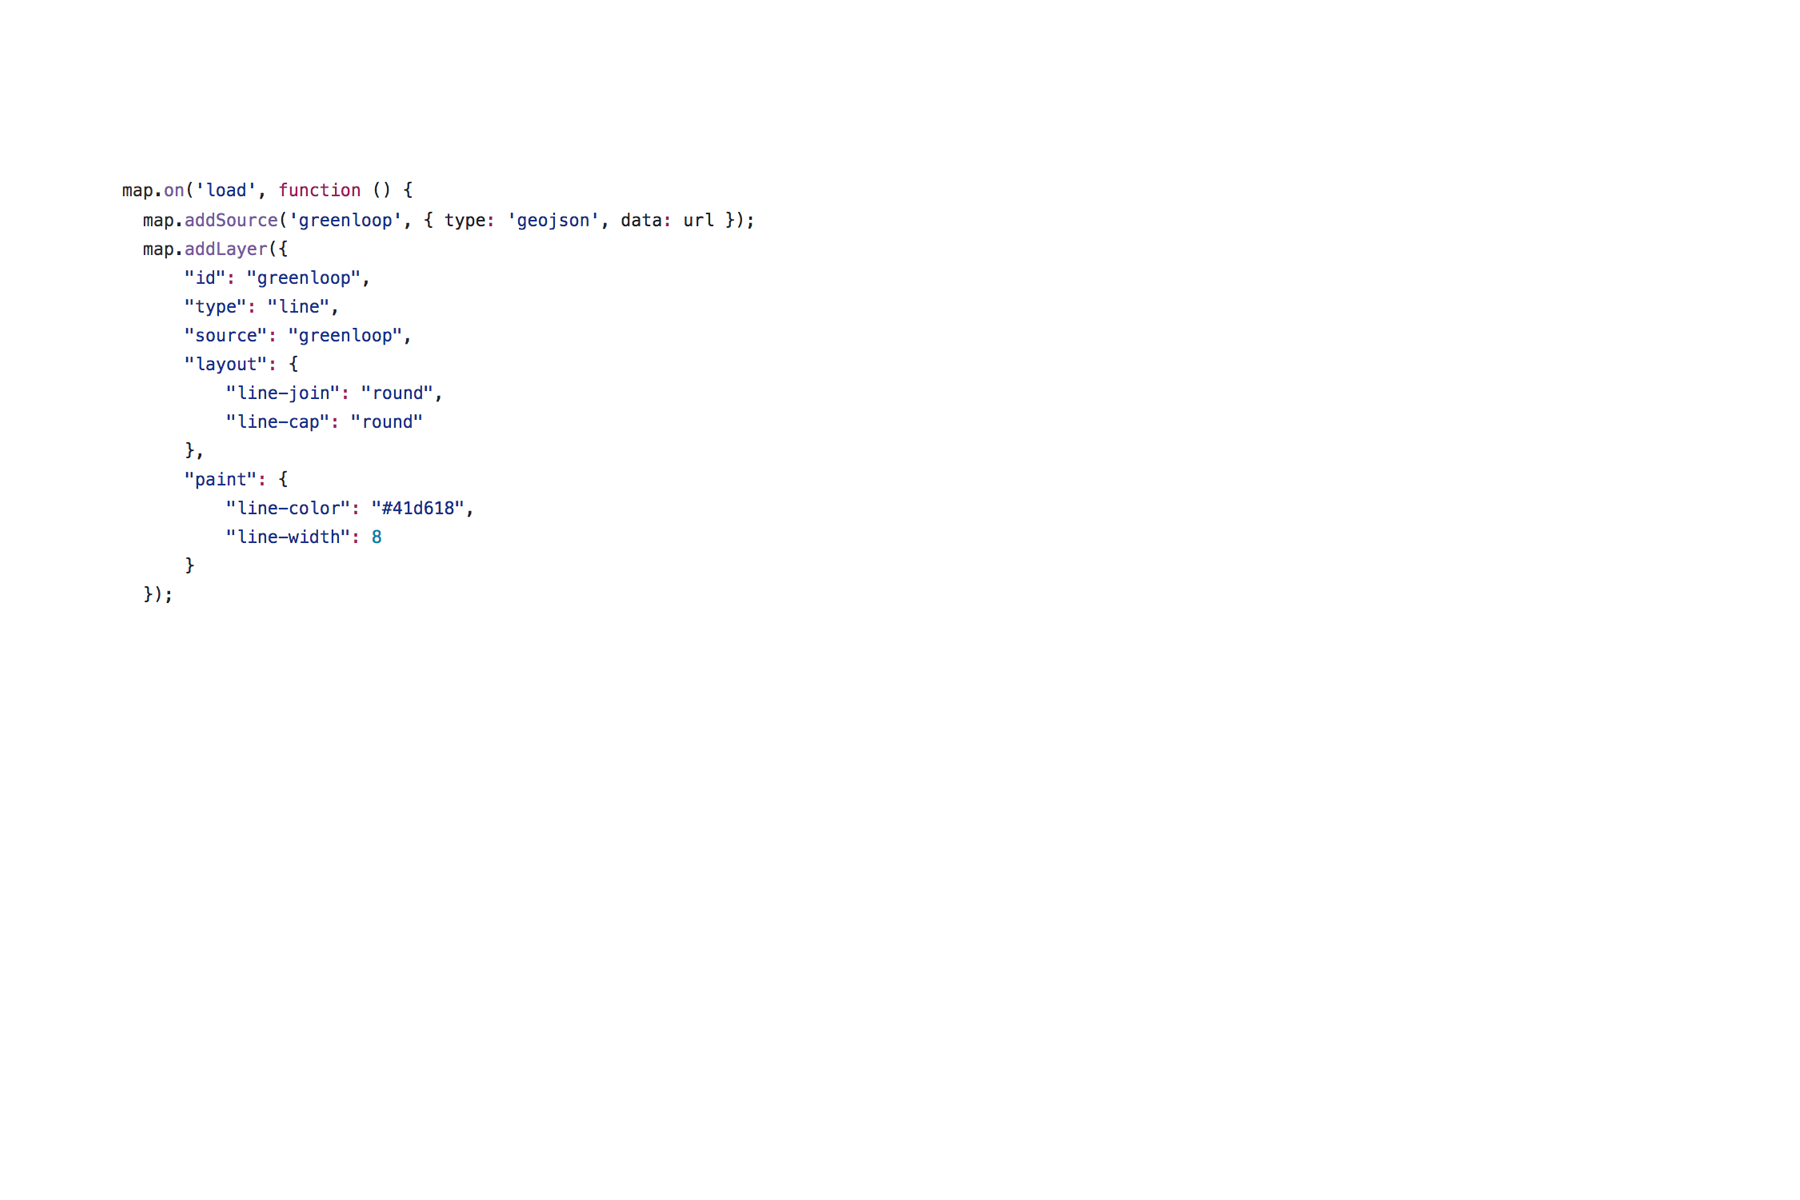
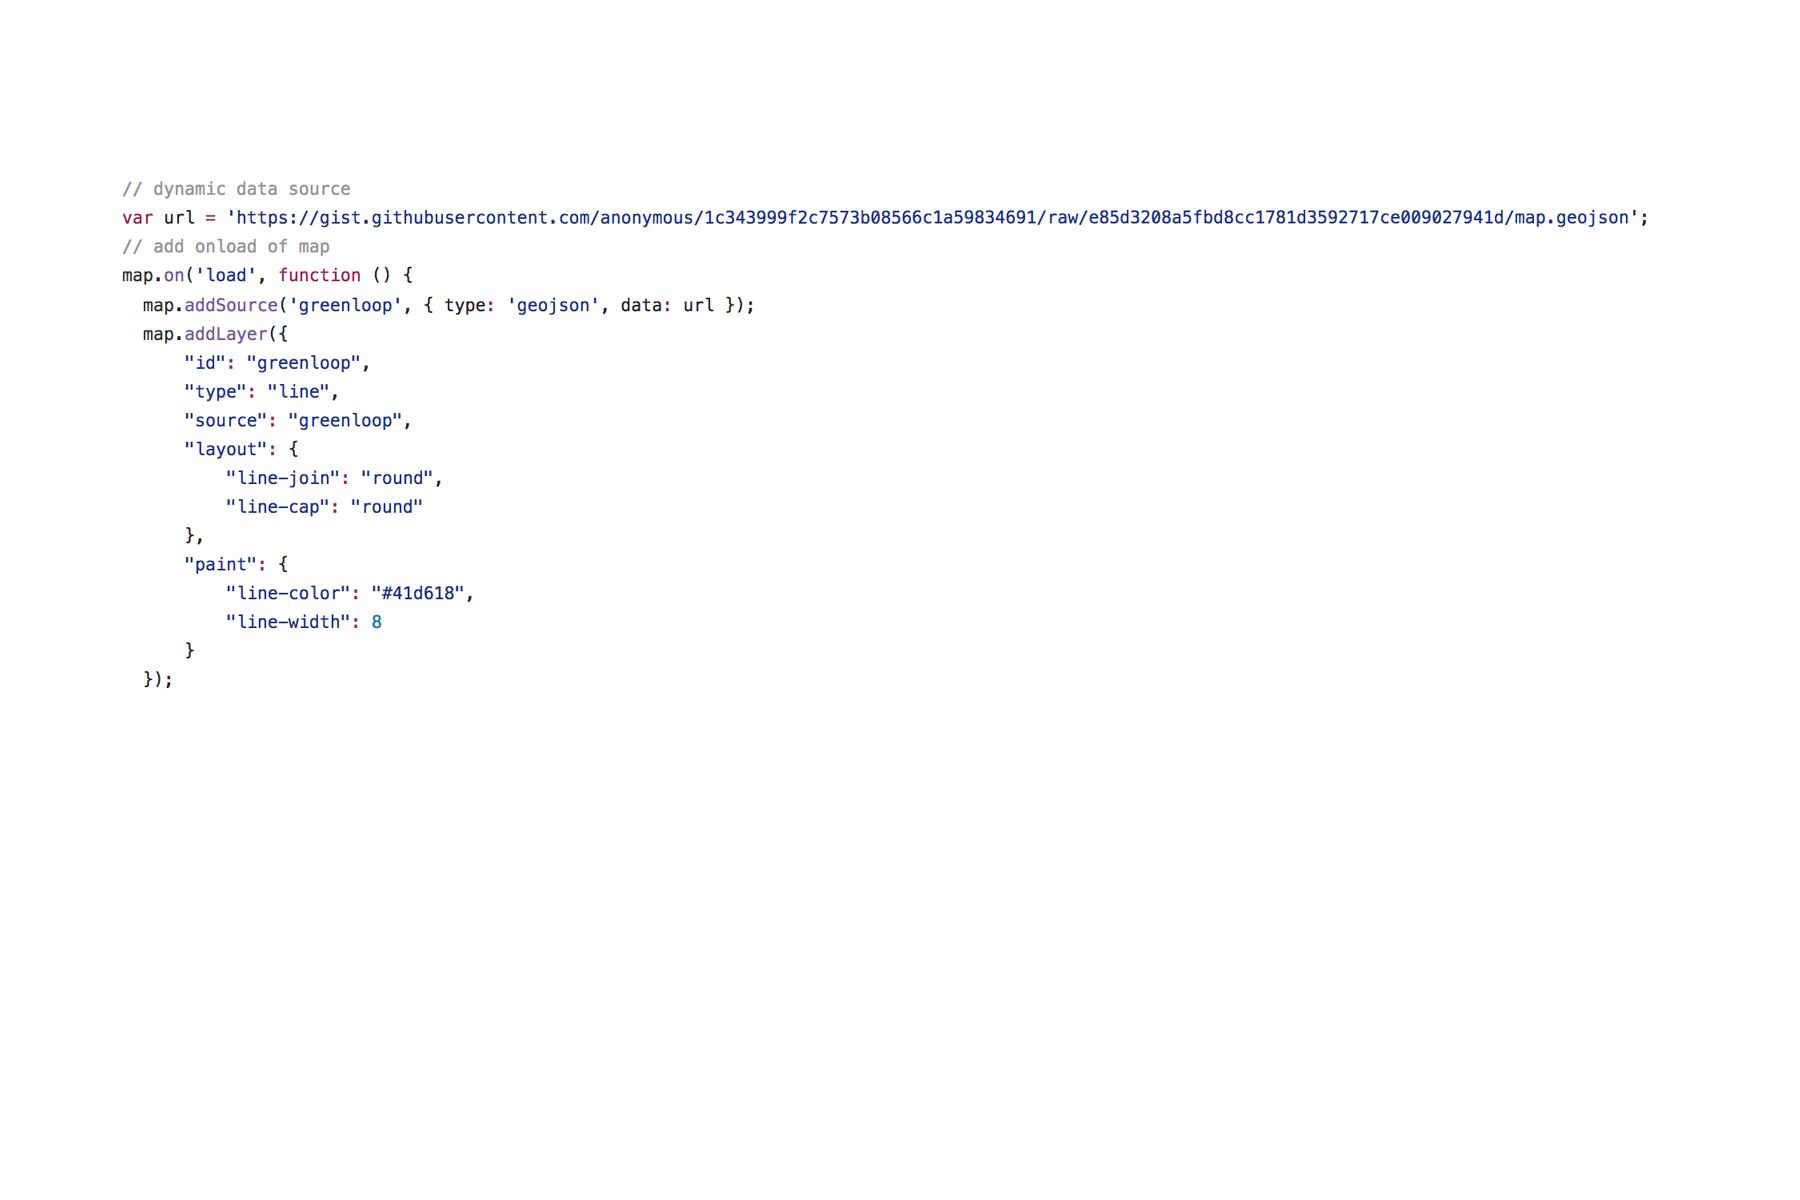
final updates

Changed region(s): [[0.0622, 0.1542, 0.9022, 0.5242], [0.2489, 0.2467, 0.3733, 0.2775]]

diff --git a/gis_mapbox-workshop_2017/index.html b/gis_mapbox-workshop_2017/index.html
@@ -207,10 +207,39 @@
     <ul class='norm'>
       <li>In jsbin, open the <em>javascript</em> panel.</li>
       <li>View the <a href='https://gist.githubusercontent.com/anonymous/1c343999f2c7573b08566c1a59834691/raw/e85d3208a5fbd8cc1781d3592717ce009027941d/map.geojson'><em>.geojson</em></a></li>
-      <li>Add the line <a class='highlighter' href='#'>var url = 'add-URL-here';</a></li>
+      <li>Add the line <br><a class='highlighter' href='#'>var url = 'add-URL-here';</a></li>
+    </ul>
+  </div>
+  <div><ul><a href='#' class='highlighter-w'><em>Add data source</em></a><br></ul>
+    <ul class='norm'>
+      <li>Add the line <br><a class='highlighter' href='#'>map.addSource('greenloop', { type: 'geojson', data: url });</a></li>
+    </ul>
+  </div>
+  <div><ul><a href='#' class='highlighter-w'><em>Add map layer</em></a><br></ul>
+    <ul class='norm'>
+      <li><a class='highlighter-x' href='#'>map.addLayer({</a></li>
+        <li><a class='highlighter-x' href='#'>"id": "greenloop",</a></li>
+        <li><a class='highlighter-x' href='#'>"type": "line",</a></li>
+    </ul>
+  </div>
+  <div><ul><a href='#' class='highlighter-w'><em>Add layer</em></a><br></ul>
+    <ul class='norm'>
+      <li><a class='highlighter-x' href='#'>"source": "greenloop",</a></li>
+      <li><a class='highlighter-x' href='#'>"layout": {
+            "line-join": "round",
+            "line-cap": "round"
+        },</a></li>
+      <li><a class='highlighter-x' href='#'>"paint": {
+            "line-color": "#41d618",
+            "line-width": 8
+        }
+    <li><a class='highlighter-x' href='#'>});</a></li>
     </ul>
   </div>
   
+  
+  <div><img src='images/code_data.png' /></div>
+    
   <div><ul><a href='http://output.jsbin.com/boyulicuho' class='highlighter-x'>View <em>map with data</em></a></ul></div>
 
 
@@ -226,6 +255,9 @@
       <li>(3) Create custom data directly in <a href='https://www.mapbox.com/studio/datasets/'><em>Studio dataset editor</em></a></li>
     </ul>
   </div>
+  
+  
+  <div><ul><a href='https://www.mapbox.com/mapbox-gl-js/examples/' class='highlighter-x'>Add interactivity with <em>GL JS</em></a></ul></div>
   
   <!-- DATA & DESIGN RESOURCES -->
   <div><ul><a href='#' class='highlighter-w'>Design and data resources.</a><br></ul>
